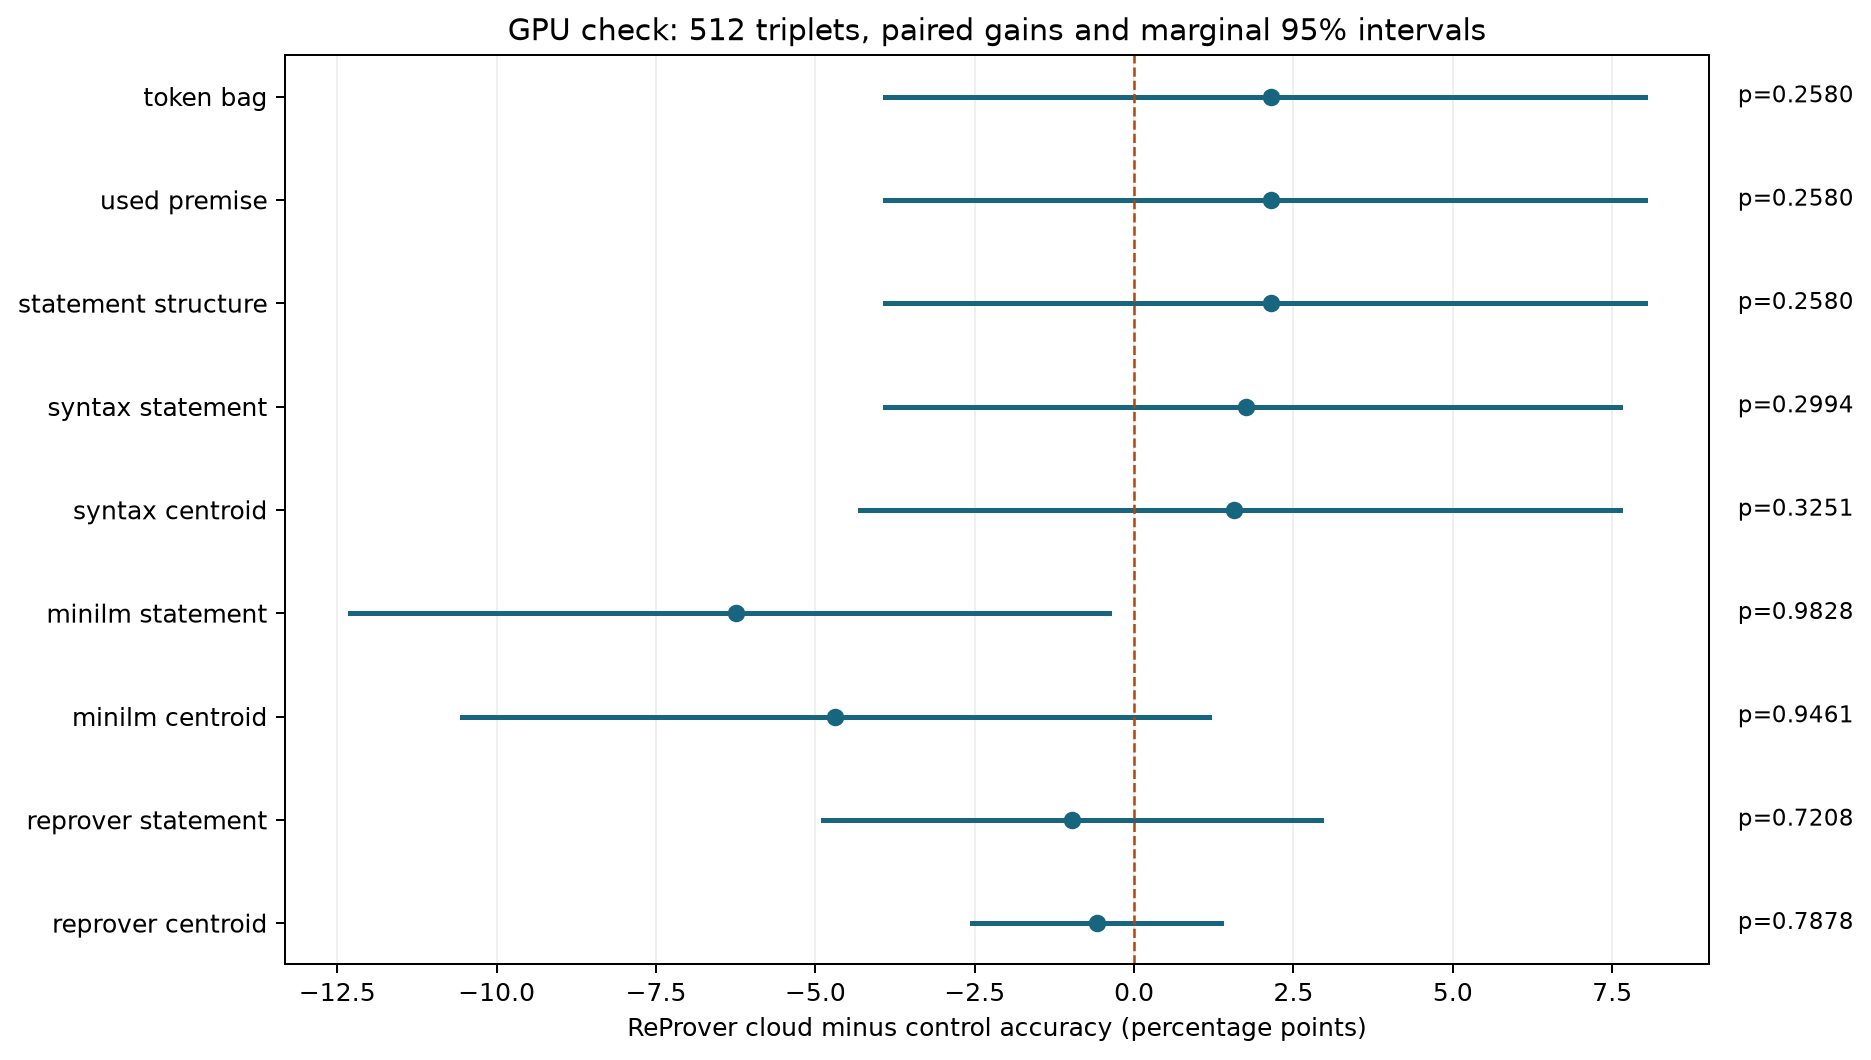
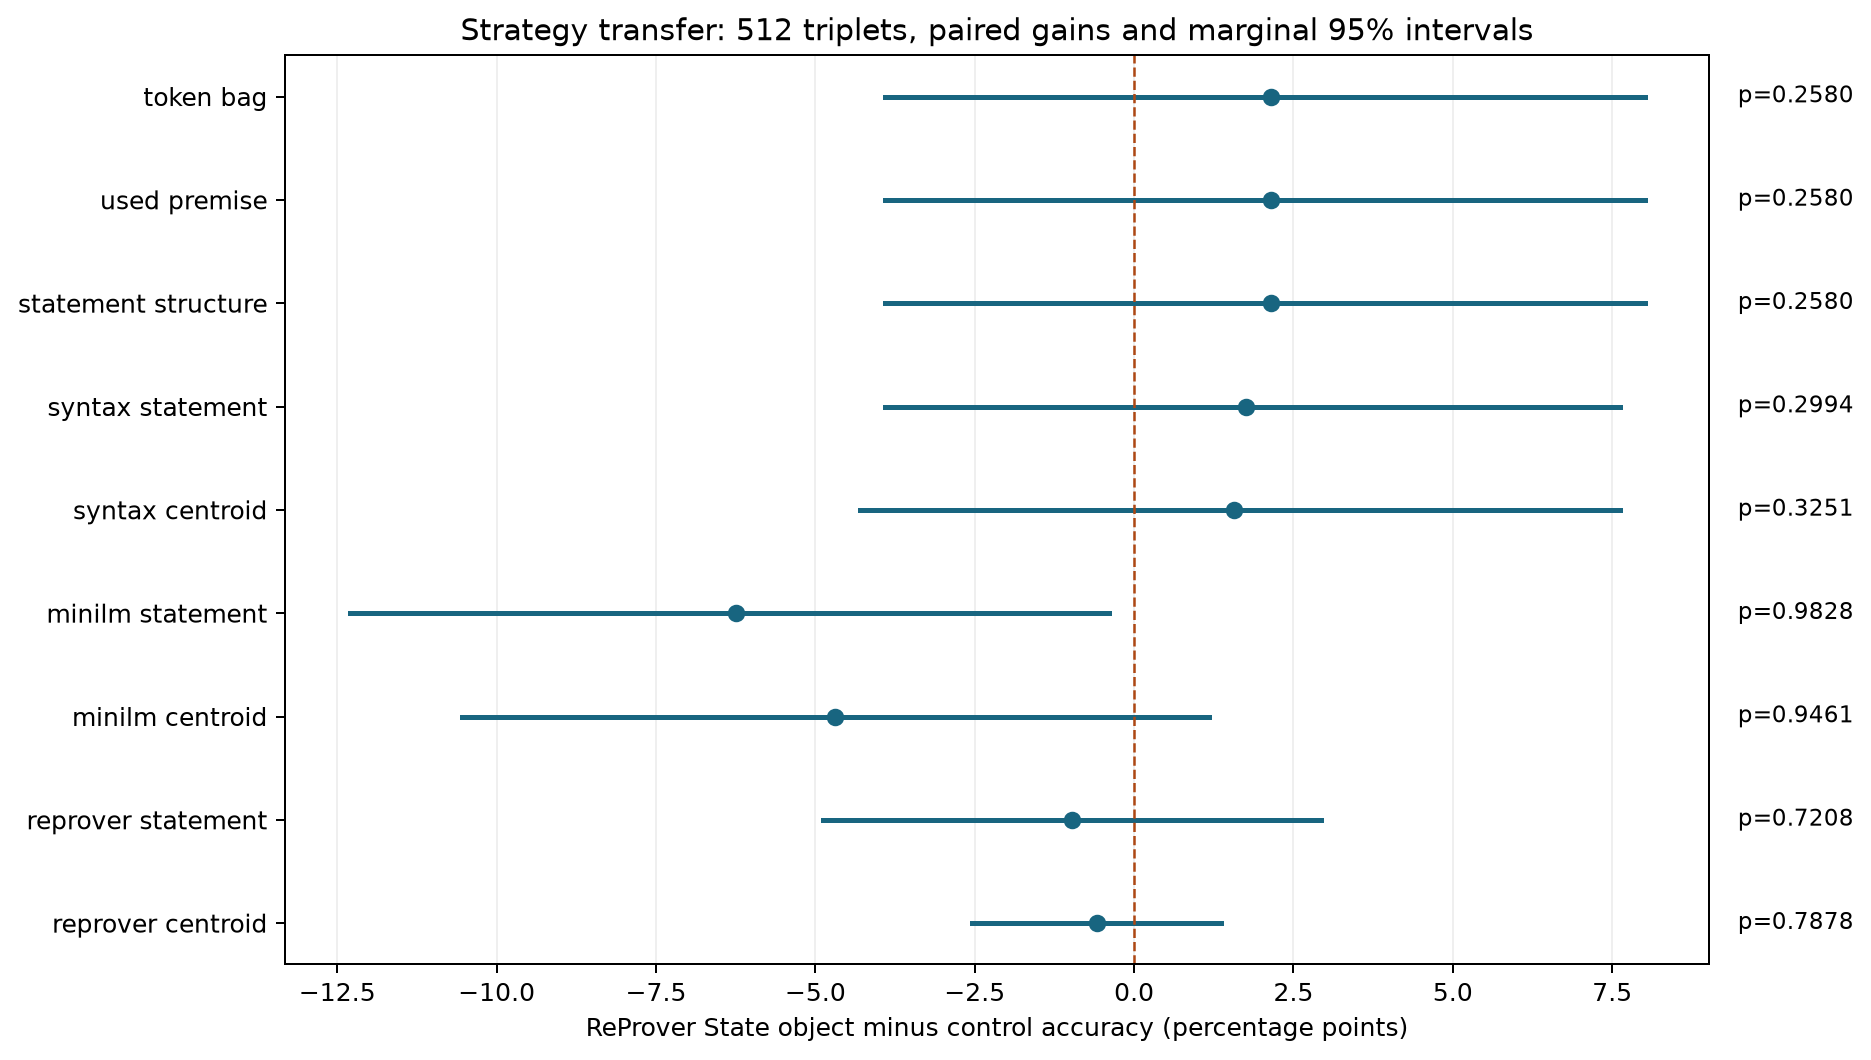
Use State object terminology and explain the accuracy task

Changed region(s): [[0.248, 0.0, 0.806, 0.0623], [0.31, 0.9651, 0.744, 0.9962]]

diff --git a/scripts/plot-gpu-execution.py b/scripts/plot-gpu-execution.py
@@ -30,8 +30,8 @@ def main():
     ax.invert_yaxis()
     ax.axvline(0, color="#ad4713", linestyle="--", linewidth=1)
     ax.set(
-        xlabel="ReProver cloud minus control accuracy (percentage points)",
-        title="GPU check: 512 triplets, paired gains and marginal 95% intervals",
+        xlabel="ReProver State object minus control accuracy (percentage points)",
+        title="Strategy transfer: 512 triplets, paired gains and marginal 95% intervals",
     )
     ax.grid(axis="x", alpha=0.2)
     fig.tight_layout()

diff --git a/docs/gpu-execution-results-v1.md b/docs/gpu-execution-results-v1.md
@@ -1,30 +1,43 @@
-# Strategy-transfer result: no demonstrated cloud advantage
+# Strategy-transfer result: no demonstrated State object advantage
 
 The completed 512-triplet study does not show added information from the
-ReProver proof cloud over the registered cheap controls. Cloud accuracy is
+ReProver State object over the registered cheap controls. State object accuracy is
 276/512 (53.91%), versus 279/512 (54.49%) for its centroid. The paired difference
 is -0.59 percentage points, with a marginal bootstrap 95% interval of
 [-2.54, +1.37] points. No ten-point improvement requirement is applied.
+
+Here the **State object** is the proposed theorem-level representation \(X_T\):
+an unordered collection of embedded proof states. This implementation samples
+two states from each of four proofs. Each ReProver state vector has 1,472
+numerical coordinates, giving a State object of eight such vectors per theorem.
+
+Accuracy refers to a specific prediction. Each trial supplies an anchor theorem
+A and two candidate theorems, B and C. Comparing their State objects with energy
+distance selects the candidate expected to have the better verified mutual
+proof-strategy transfer relationship with A. The State object comparison selects
+the correct candidate in 276 of the 512 trials. The centroid comparison averages
+the same eight elements before selecting a candidate and succeeds in 279 trials.
 
 All nine cheap controls have meaningful headroom: the largest one-sided exact
 95% upper accuracy bound is 63.76%, well below the .90 diagnostic ceiling.
 This result therefore avoids the earlier saturated-baseline failure. It is
 limited evidence about this synthetic transfer task, encoder and eight-point
-sampling budget, not a rejection of the broader theorem-cloud conjecture.
+sampling budget, not a rejection of the broader State object conjecture.
 
 ## Population and controls
 
 The 512 frozen nine-leaf associativity triplets contain 1,536 theorem endpoint
 pairs. All 6,144 sampled proofs and 30,720 intermediate states passed Lean
 verification. The shortest-proof banks, literal transfer labels and complete
-deterministic assignment search were independently reproduced. Positive candidates permit at least .75 mutual shortest-program transfer;
+deterministic assignment search were independently reproduced. Positive candidates
+permit at least .75 mutual shortest-program transfer;
 negative candidates permit none. Source-clade overlap, target-clade overlap and
 used-premise overlap match exactly within every triplet. Endpoint pairs and proof
 programs are disjoint across confirmation triplets. There are 272 program
 patterns shared with the eight-leaf development set, so this is a held-out
 population within one synthetic family, not independence from all earlier motifs.
 
-Each theorem cloud contains two sampled intermediate states from each of four
+Each theorem State object contains two sampled intermediate states from each of four
 verified proofs, with proof identity and order discarded for energy distance.
 All 8,500 distinct ReProver input texts were encoded uniformly on CUDA; no CPU
 ReProver vectors were mixed in. The syntax and MiniLM arms use their completed
@@ -37,7 +50,7 @@ triplet-bootstrap resamples descriptively to the GPU run. The single original
 claim requires superiority over all nine controls; none of these components
 passes at .05. Intervals are marginal, not simultaneous.
 
-| Control | Accuracy | Cloud minus control (points) | Marginal 95% interval | One-sided p |
+| Control | Accuracy | State object minus control (points) | Marginal 95% interval | One-sided p |
 |---|---:|---:|---:|---:|
 | token bag | 51.76% | +2.15 | [-3.91, +8.01] | 0.2580 |
 | used premise | 51.76% | +2.15 | [-3.91, +8.01] | 0.2580 |
@@ -51,15 +64,15 @@ passes at .05. Intervals are marginal, not simultaneous.
 
 ![GPU paired gains](../results/gpu-execution-check-v1/figures/paired-gains.png)
 
-The centroid comparison has 11 cloud-only successes and 14 centroid-only
+The centroid comparison has 11 successes unique to the State object comparison and 14 centroid-only
 successes; the two representations agree on 487/512 triplets. This explains the
 small observed gain and narrow paired interval relative to less correlated
 controls. A nonsignificant result does not establish exact equality, and the
 interval still allows a gain near one point. The fixed sample size was not
 expanded after results, and the removed ten-point gate was not restored.
 
-Syntax cloud accuracy is 49.41%; MiniLM cloud accuracy is 57.03%. Their own
-centroids score 52.34% and 58.59%, respectively. None of the three cloud scores
+Syntax State object accuracy is 49.41%; MiniLM State object accuracy is 57.03%. Their own
+centroids score 52.34% and 58.59%, respectively. None of the three State object scores
 exceeds its corresponding centroid score in this completed run.
 
 ## Original-plan proof controls
@@ -70,18 +83,18 @@ strata, ties, gains and intervals. Selected comparisons are:
 
 | Representation | Accuracy |
 |---|---:|
-| ReProver cloud | 53.91% |
+| ReProver State object | 53.91% |
 | ReProver first sampled proof mean | 55.86% |
 | ReProver means retaining sampled state positions | 55.66% |
 | Tactic-component histogram | 82.03% |
 | Sampled complete-program overlap | 92.19% |
 
 The complete-program comparison sees all five proof steps and their order,
-whereas the cloud sees only two states per proof. The tactic histogram also summarizes complete proof scripts. Both controls
-therefore have more proof evidence than the sampled state cloud, and their
+whereas the State object sees only two states per proof. The tactic histogram also summarizes complete proof scripts. Both controls
+therefore have more proof evidence than the sampled State object, and their
 advantages are not information-matched comparisons. They nevertheless demonstrate
 that proof evidence can predict this task substantially better than these
-encoded state clouds. They do not identify which representation or sampling
+encoded State objects. They do not identify which representation or sampling
 change would recover that information. No comparator was selected after results
 as a new primary gate.
 
@@ -135,4 +148,4 @@ After its complete result was available, the user cancelled the remaining CPU
 encoding at 7,270/8,500 cached inputs. No partial CPU outcome was scored. These
 records are preserved as execution history; finishing a CPU duplicate is not a
 condition for using the complete experimental results reported here. CPU versus
-GPU is a reproducibility detail, not a separate hypothesis about theorem clouds.
+GPU is a reproducibility detail, not a separate hypothesis about State objects.

diff --git a/README.md b/README.md
@@ -8,7 +8,7 @@ The latest continuation addresses a task-design failure in the earlier study.
 An [adversarial analysis](docs/adversarial-centroid-results-v1.md) verifies that
 invariant premise text is sufficient for the old centroid's perfect score;
 all 12 contexts are also constructively equivalent in Lean. That ceiling was
-not an informative test of cloud added information.
+not an informative test of State object added information.
 
 The first strategy-transfer screen failed its task and budget gates. A fresh
 [structurally matched experiment](docs/strategy-transfer-protocol-v2.md) now passes
@@ -16,16 +16,16 @@ both: all nine baseline upper accuracy bounds are below 71.2%, and simulated
 power qualifies a 512-triplet confirmation budget. Premise overlap and both
 source and target statement-structure distances are matched exactly by design.
 
-The eight-leaf development cloud initially exceeded its centroid, but failed the
+The eight-leaf development State object initially exceeded its centroid, but failed the
 original ten-point continuation rule. The user removed that arbitrary margin,
 and a fresh 512-triplet, nine-leaf study was acquired with exact matching and
 no minimum-gain requirement. All 6,144 sampled proofs and 30,720 intermediate
 states passed Lean verification.
 
 The **[completed 512-triplet study](docs/gpu-execution-results-v1.md)** has baseline
-headroom, but shows no cloud added-information advantage: ReProver cloud accuracy
+headroom, but shows no State object added-information advantage: ReProver State object accuracy
 is **53.91%**, versus **54.49%** for its centroid (paired gain **-0.59 points**,
-marginal bootstrap 95% interval **[-2.54, +1.37]**). None of the three cloud arms
+marginal bootstrap 95% interval **[-2.54, +1.37]**). None of the three State object arms
 exceeds its corresponding centroid. Tactic histograms and complete-program
 comparisons score 82.03% and 92.19%; the latter sees more proof information.
 
@@ -40,7 +40,7 @@ The [GPU archive](results/gpu-execution-check-v1/README.md) reproduces every sco
 paired test, interval and supplemental control without a GPU or model download.
 The earlier 99-test suite, two scheduler tests and three new device tests pass.
 The [development result](docs/strategy-transfer-results-v2.md) remains intact;
-the [first screen](docs/strategy-transfer-results-v1.md) stays closed with clouds
+the [first screen](docs/strategy-transfer-results-v1.md) stays closed with State objects
 unscored. No old-corpus pair mining, Phase 5, or full mathlib acquisition occurred.
 The broader conjecture remains unresolved.
 
@@ -70,7 +70,7 @@ OPENBLAS_NUM_THREADS=1 OMP_NUM_THREADS=1 noema synthetic \
 
 Each run creates `report.json` with all trial statistics and provenance, and `report.md` with readable tables. The output directory must be new. The seed controls every sample, projection, and permutation; timestamps and platform metadata naturally differ across reruns. Dependency pins make the reference environment reproducible. BLAS thread limits avoid overhead on these small matrix operations.
 
-The smoke configuration runs 336 comparisons across seven scenarios, two sample sizes, and two dimensions. It checks independent same-shape samples, partial overlap, separated populations, multimodality, holes, and branches. Each comparison uses equal-size clouds. A shared isometric map embeds the two latent dimensions into the ambient space; noise is added per ambient coordinate. This is a controlled low-intrinsic-dimensional benchmark, not a model of all proof-state distributions.
+The smoke configuration runs 336 comparisons across seven scenarios, two sample sizes, and two dimensions. It checks independent same-shape samples, partial overlap, separated populations, multimodality, holes, and branches. Each comparison uses equal-size State objects. A shared isometric map embeds the two latent dimensions into the ambient space; noise is added per ambient coordinate. This is a controlled low-intrinsic-dimensional benchmark, not a model of all proof-state distributions.
 
 For a larger exploratory sweep across dimensions and noise levels:
 
@@ -89,7 +89,7 @@ The pilot makes 2,520 comparisons and costs substantially more than the smoke ru
 | Energy V-statistic | Qualified primary metric for the revised matched experiment |
 | Sliced Wasserstein-1 | Average exact transport along random 1D projections |
 | Symmetric radius coverage | Local proximity diagnostic; larger means more coverage |
-| Centroid distance | Baseline exposing information lost by collapsing a cloud to its mean |
+| Centroid distance | Baseline exposing information lost by collapsing a State object to its mean |
 
 MMD uses the nonnegative biased estimator and a bandwidth computed without labels from the pooled points. The original study tests MMD; the revised proof-cluster calibration tests MMD and energy, and its frozen formal continuation selects energy. P-values include the Monte Carlo correction and undergo Benjamini–Hochberg adjustment across each complete primary family. The new synthetic calibration permutes whole proof blocks. Formal comparisons use whole-theorem label permutations and theorem-cluster uncertainty because states within one proof are correlated.
 

diff --git a/results/gpu-execution-check-v1/README.md b/results/gpu-execution-check-v1/README.md
@@ -1,6 +1,6 @@
 # Complete GPU execution check
 
-The 512-triplet strategy-transfer study is complete. ReProver cloud
+The 512-triplet strategy-transfer study is complete. ReProver State object
 accuracy is 53.91%, centroid54.49%; paired gain -0.59 points, marginal bootstrap
 95% interval [-2.54,+1.37] points. All cheap-control headroom diagnostics pass;
 none of the nine paired superiority comparisons passes. See the complete
@@ -14,8 +14,8 @@ assignment and completed syntax/MiniLM vectors are shared from
 Files:
 - `inputs.json`: every input string, source hashes and provenance; no task labels.
 - `run/`: all 8,500 GPU vectors, device manifest and acquisition completion record.
-- `headroom.json`: cheap-control diagnostic saved before GPU cloud scoring.
-- `report.json`: all three cloud arms, nine controls, paired comparisons and
+- `headroom.json`: cheap-control diagnostic saved before GPU State object scoring.
+- `report.json`: all three State object arms, nine controls, paired comparisons and
   original-plan proof controls. CPU syntax/MiniLM and GPU ReProver are explicit.
 - `validation.json`, `full-validation.json`: numerical and source/input reproduction.
 - `acquisition.log`: complete GPU acquisition progress and manifest.
@@ -40,5 +40,5 @@ python scripts/encode-reprover-gpu.py \
 
 The output directory must be new. Retain singleton batches and the frozen
 int8_float32 configuration. Do not treat CPU and GPU output caches as identical.
-The cloud/centroid inference code is the original frozen implementation; the
+The State object/centroid inference code is the original frozen implementation; the
 hardware check adds no minimum-gain threshold or alternative success route.

diff --git a/docs/strategy-transfer-confirmation-results-v1.md b/docs/strategy-transfer-confirmation-results-v1.md
@@ -94,7 +94,7 @@ The original plan's single-proof and trajectory controls are also covered by a
 `f6c4ce6` during the Lean audit and before confirmation embeddings. Its source
 was frozen at `d4cf503`. These comparisons are descriptive and use the same
 frozen inputs; the complete-program comparator has more trajectory information
-than the eight-point cloud. They add no stopping criterion to the primary test.
+than the eight-point State object. They add no stopping criterion to the primary test.
 
 All 99 local tests pass. Independent archive reconstruction validates every
 recorded Lean source, all 6,144 axiom audits and all 30,720 contexts/goals, in

diff --git a/docs/implementation-plan.md b/docs/implementation-plan.md
@@ -176,7 +176,7 @@ All 8,500 GPU inputs completed in 54.19 seconds, with identical frozen assignmen
 weights, singleton batches, tokenization, pooling and analysis rules. No CPU
 ReProver vectors were mixed into that arm.
 
-The complete GPU cloud scores 53.91%, versus its centroid54.49%; paired gain is
+The complete GPU State object scores 53.91%, versus its centroid54.49%; paired gain is
 -0.59 points with marginal 95% bootstrap interval [-2.54,+1.37]. All nine cheap
 controls pass headroom; no paired superiority component passes. Tactic and
 complete-program controls score 82.03% and 92.19%, with the latter explicitly
